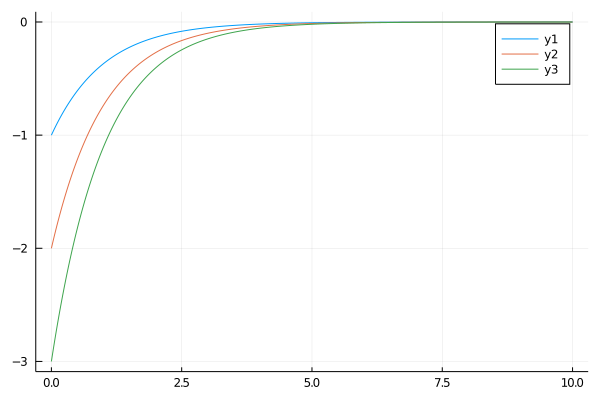
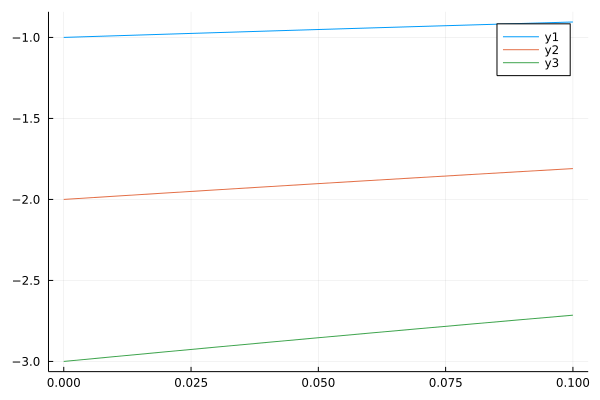
Bug fix nested log activation logic (#8)
* wip

* wip

* Update README

* Update README

diff --git a/README.md b/README.md
@@ -6,67 +6,8 @@ SimulationLogger.jl is a package providing convenient logging tools for [Differe
 and it uses SimulationLogger.jl as a main logging tool. You can find real examples about **how to use this package** in FlightSims.jl.
 
 # TL; DR: example code
-## Example 1: typical usage (see [FlightSims.jl](https://github.com/JinraeKim/FlightSims.jl) for details)
-
-```julia
-using FlightSims
-const FS = FlightSims
-using DifferentialEquations
-using LinearAlgebra
-using Plots
-using Test
-
-
-function test()
-    # linear system
-    A = [0 1;
-         0 0]
-    B = [0;
-         1]
-    n, m = 2, 1
-    env = LinearSystemEnv(A, B)  # exported from FlightSims
-    x0 = State(env)([1.0, 2.0])
-    p0 = zero.(x0)  # auxiliary parameter
-    # optimal control
-    Q = Matrix(I, n, n)
-    R = Matrix(I, m, m)
-    lqr = LQR(A, B, Q, R)  # exported from FlightSims
-    u_lqr = FS.OptimalController(lqr)  # (x, p, t) -> -K*x; minimise J = ∫ (x' Q x + u' R u) from 0 to ∞
-
-    # simulation
-    tf = 10.0
-    Δt = 0.01
-    affect!(integrator) = integrator.p = copy(integrator.u)  # auxiliary callback funciton
-    cb = PeriodicCallback(affect!, Δt; initial_affect=true)  # auxiliary callback
-    @Loggable function dynamics!(dx, x, p, t; u)
-        @onlylog p  # activate this line only when logging data
-        @log x, u
-        @nested_log Dynamics!(env)(dx, x, p, t; u=u)  # exported `state` and `input` from `Dynamics!(env)`
-    end
-    prob, df = sim(
-                   x0,  # initial condition
-                   apply_inputs(dynamics!; u=u_lqr),  # dynamics with input of LQR
-                   p0;
-                   tf=tf,  # final time
-                   callback=cb,
-                   savestep=Δt,
-                  )
-    @test df.x == df.state
-    @test df.u == df.input
-    p_x = plot(df.time, hcat(df.state...)';
-               title="state variable", label=["x1" "x2"], color=[:black :black], lw=1.5,
-              )  # Plots
-    plot!(p_x, df.time, hcat(df.p...)';
-          ls=:dash, label="param", color=[:red :orange], lw=1.5
-         )
-    savefig("figures/x_lqr.png")
-    plot(df.time, hcat(df.input...)'; title="control input", label="u")  # Plots
-    savefig("figures/u_lqr.png")
-    df
-end
-```
-![ex_screenshot](./figures/x_lqr.png)
-![ex_screenshot](./figures/u_lqr.png)
+## Example 1: typical usage
+See [FlightSims.jl](https://github.com/JinraeKim/FlightSims.jl) for details.
 
 ## Example 2: low-level usage
 ```julia
@@ -82,14 +23,19 @@ function test()
         @onlylog state, input = x, u  # __LOGGER_DICT__[:state] = x, __LOGGER_DICT__[:input] = u
         dx .= u
     end
+    @Loggable function custom_control(x)
+        @log a = 1
+        -a*x
+    end
     @Loggable function feedback_dynamics!(dx, x, p, t)
         @onlylog time = t  # __LOGGER_DICT__[:time] = t
         @log x, t  # __LOGGER_DICT__[:x] = x
-        @log u = -x  # __LOGGER_DICT__[:u] = -x
+        u = @nested_log custom_control(x)  # __LOGGER_DICT__[:a] = 1
+        @log u  # __LOGGER_DICT__[:u] = -a*x
         @nested_log :linear x
         @nested_log :linear dynamics!(dx, x, p, t; u=u)
     end
-    t0, tf = 0.0, 10.0
+    t0, tf = 0.0, 0.1
     Δt = 0.01
     saved_values = SavedValues(Float64, Dict)
     cb = CallbackSet()
@@ -106,17 +52,18 @@ function test()
                       callback=cb,
                      )
     _ = solve(prob)
-    @show saved_values.saveval
     ts = saved_values.saveval |> Map(datum -> datum[:t]) |> collect
     xs = saved_values.saveval |> Map(datum -> datum[:x]) |> collect
     us = saved_values.saveval |> Map(datum -> datum[:u]) |> collect
     times = saved_values.saveval |> Map(datum -> datum[:time]) |> collect
     states = saved_values.saveval |> Map(datum -> datum[:linear][:state]) |> collect
     inputs = saved_values.saveval |> Map(datum -> datum[:linear][:input]) |> collect
+    as = saved_values.saveval |> Map(datum -> datum[:a]) |> collect
     @test ts == saved_values.t
     @test ts == times
     @test xs == states
     @test us == inputs
+    @test as == ones(length(ts))
     p_x = plot(ts, hcat(xs...)')
     p_u = plot(ts, hcat(us...)')
     dir_log = "figures"
@@ -202,6 +149,25 @@ end
     @nested_log dynamics!(dx, x, p, t)  # __LOGGER_DICT__[:state] = x
 end
 ```
+3. `@nested_log` with assignment
+```julia
+@Loggable function dynamics!(dx, x, p, t; u)
+    @log state = x  # __LOGGER_DICT__[:state] = x
+    @log input = u  # __LOGGER_DICT__[:input] = u
+    dx .= u
+end
+
+@Loggable function control(x)
+    @log a = 1  # hidden state; internally defined variable
+    -a*x
+end
+
+@Loggable function feedback_dynamics!(dx, x, p, t)
+    @log time = t  # __LOGGER_DICT__[:time] = t
+    u = @nested_log control(x)  # __LOGGER_DICT__[:a] = 1
+    @nested_log dynamics!(dx, x, p, t; u)  # __LOGGER_DICT__[:state] = x
+end
+```
 
 ## `@nested_onlylog`
 This macro logs (possibly) multiple data in a nested sense **only when logging data** (similar to `@onlylog`).
@@ -214,6 +180,10 @@ This macro logs (possibly) multiple data in a nested sense **only when logging d
 
 
 # Notes
+## Background of this package
 - This basic form of this macro is inspired by [SimulationLogs.jl](https://github.com/jonniedie/SimulationLogs.jl). But there are some differences. For example, `@log` in this package is based on [SavingCallback](https://diffeq.sciml.ai/stable/features/callback_library/#saving_callback), while `@log` in [SimulationLogs.jl](https://github.com/jonniedie/SimulationLogs.jl) will save data in the sense of postprocessing.
 There are two main advantages: this package can 1) log data without repeating the same code within differential equation (DE) functions, and 2) deal with stochastic parameter updates.
 For more details, see [the original question](https://discourse.julialang.org/t/differentialequations-jl-saving-data-without-redundant-calculation-of-control-inputs/62559/3) and [the idea of this package](https://discourse.julialang.org/t/make-a-variable-as-a-global-variable-within-a-function/63067/21).
+
+## Feature request and bug report
+Please feel free to request additional features and report bugs!
